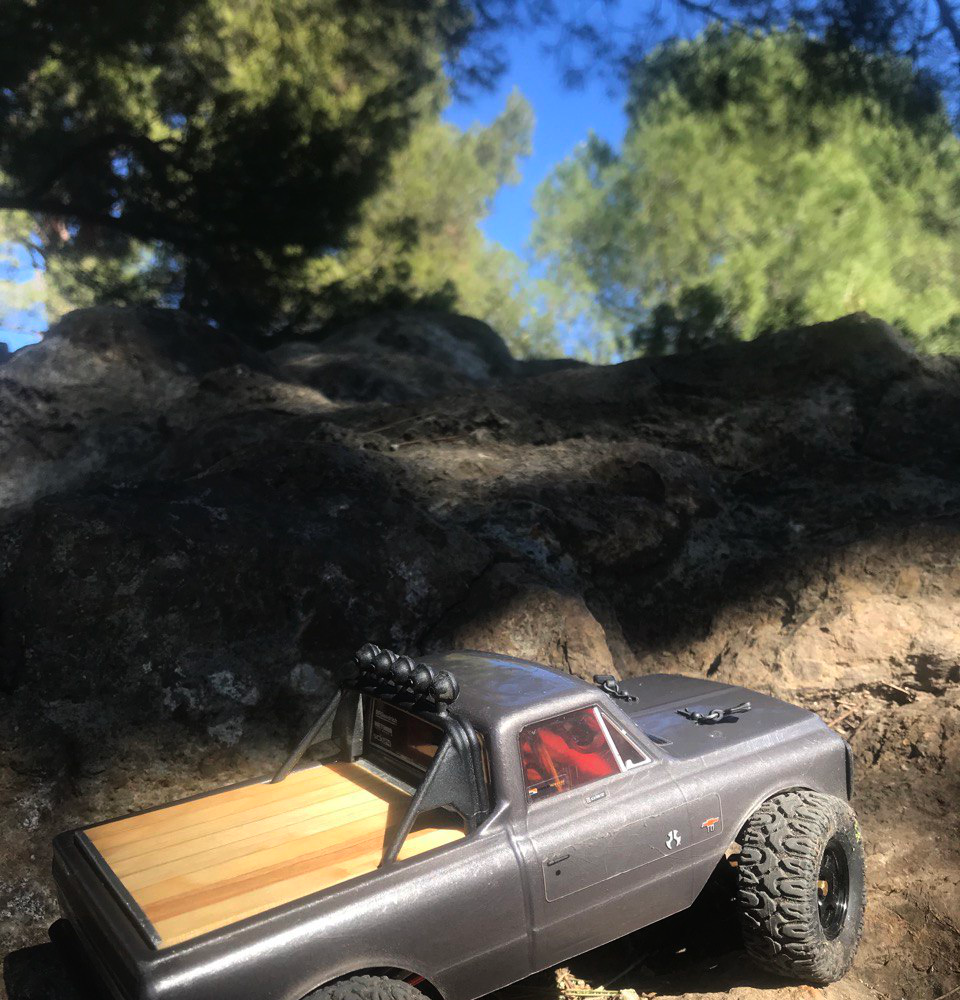
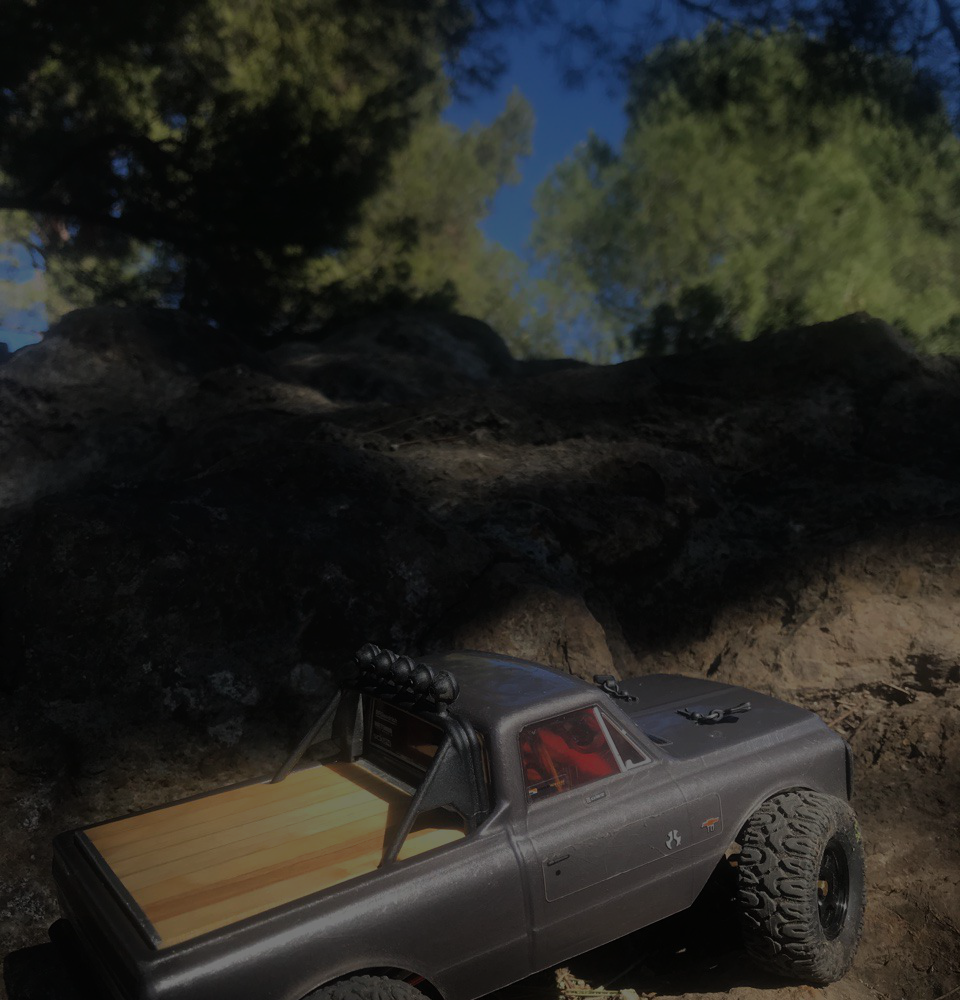
Body filter removed, background image and controlText with click on title to close

diff --git a/src/resources/css/ControlText.scss b/src/resources/css/ControlText.scss
@@ -4,8 +4,17 @@
     line-height: 40px;
 }
 
-.controlTextBoolean {
+.controlTextContainer {
+    overflow: hidden;
 
+    .dropdown {
+        width: 20px;
+        margin: 0;
+        float: right;
+    }
+    .closed {
+        height: 75px;
+    }
 }
 
 .buttonControlTextPlus, 

diff --git a/src/resources/css/Base.scss b/src/resources/css/Base.scss
@@ -18,7 +18,6 @@ body {
   background-position-x: right;
   background-repeat: no-repeat;
   background-size: cover;
-  backdrop-filter: brightness(0.5);
 }
 
 .bold {
